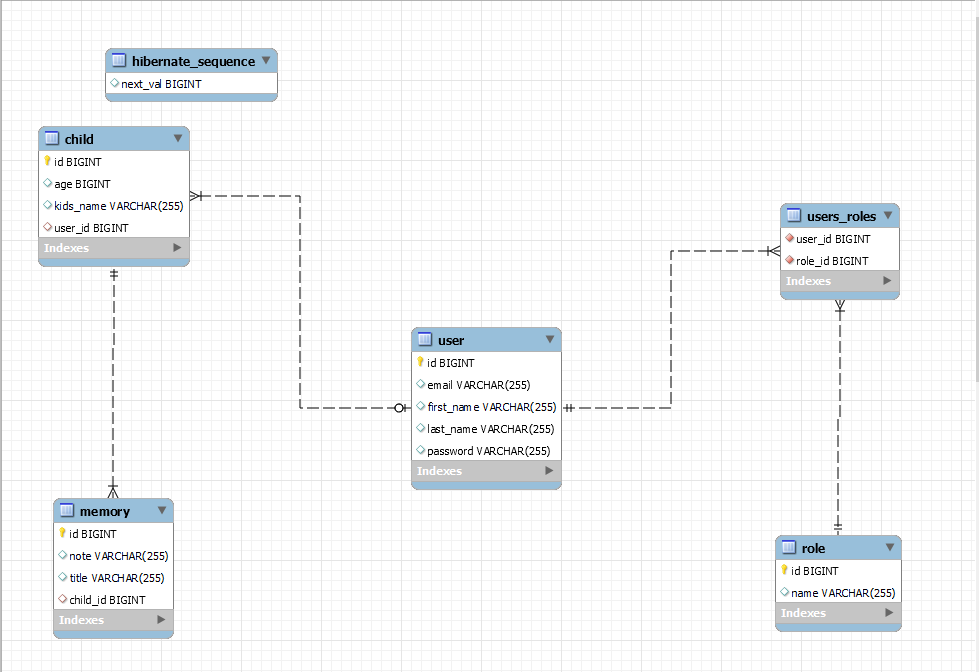
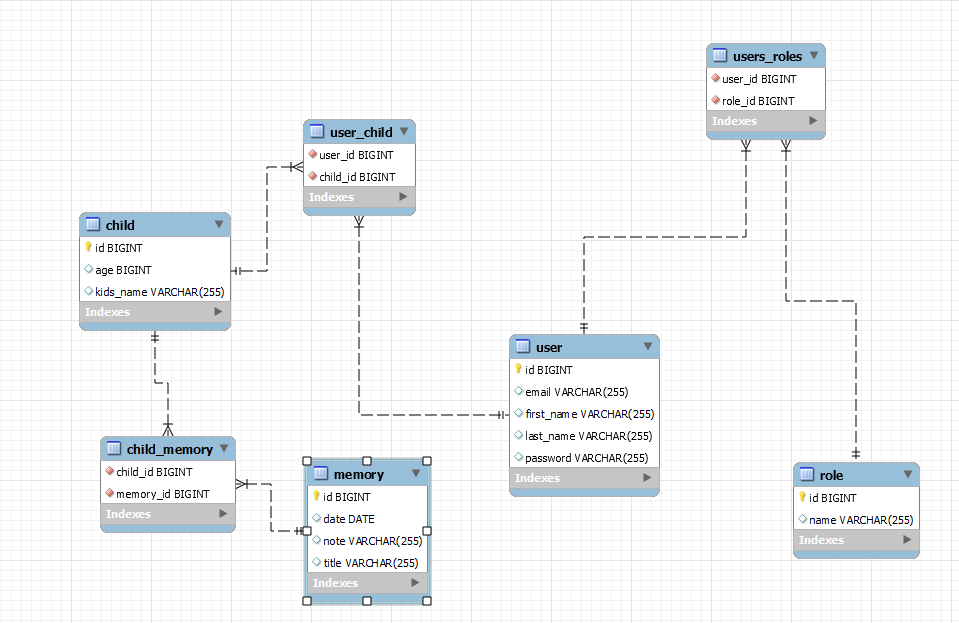
updated README and schema diagram

diff --git a/README.md b/README.md
@@ -13,8 +13,11 @@ This application is for parents to store memories: stories of childhood, picture
 
 ## Daily Progress
 
-4/25/2022(80%)
-Updating README.md on progress
+4/26/2022
+Updated styles and front end features to be consistent across logged in pages
+
+4/25/2022(90%)
+Updating README.md on progress, Updated memory and children functionality to better tie to user
 
 4/24/2022(75%)
 Updating frontend pages to uniformity
@@ -32,6 +35,13 @@ Added Sang's Spring Security information to application, fixed issue with not lo
 Removed rest controller that wasn't effective part of application
 
 4/19/2022(55%)
+Used web security application demo to try web security, then reverted after not making real progress
+
+4/18/2022(55%)
+Created navbar and page layout template
+
+4/15/2022(40%)
+Models and structure for application finished and layout design set for implementation
 
 
 ## User Stories
